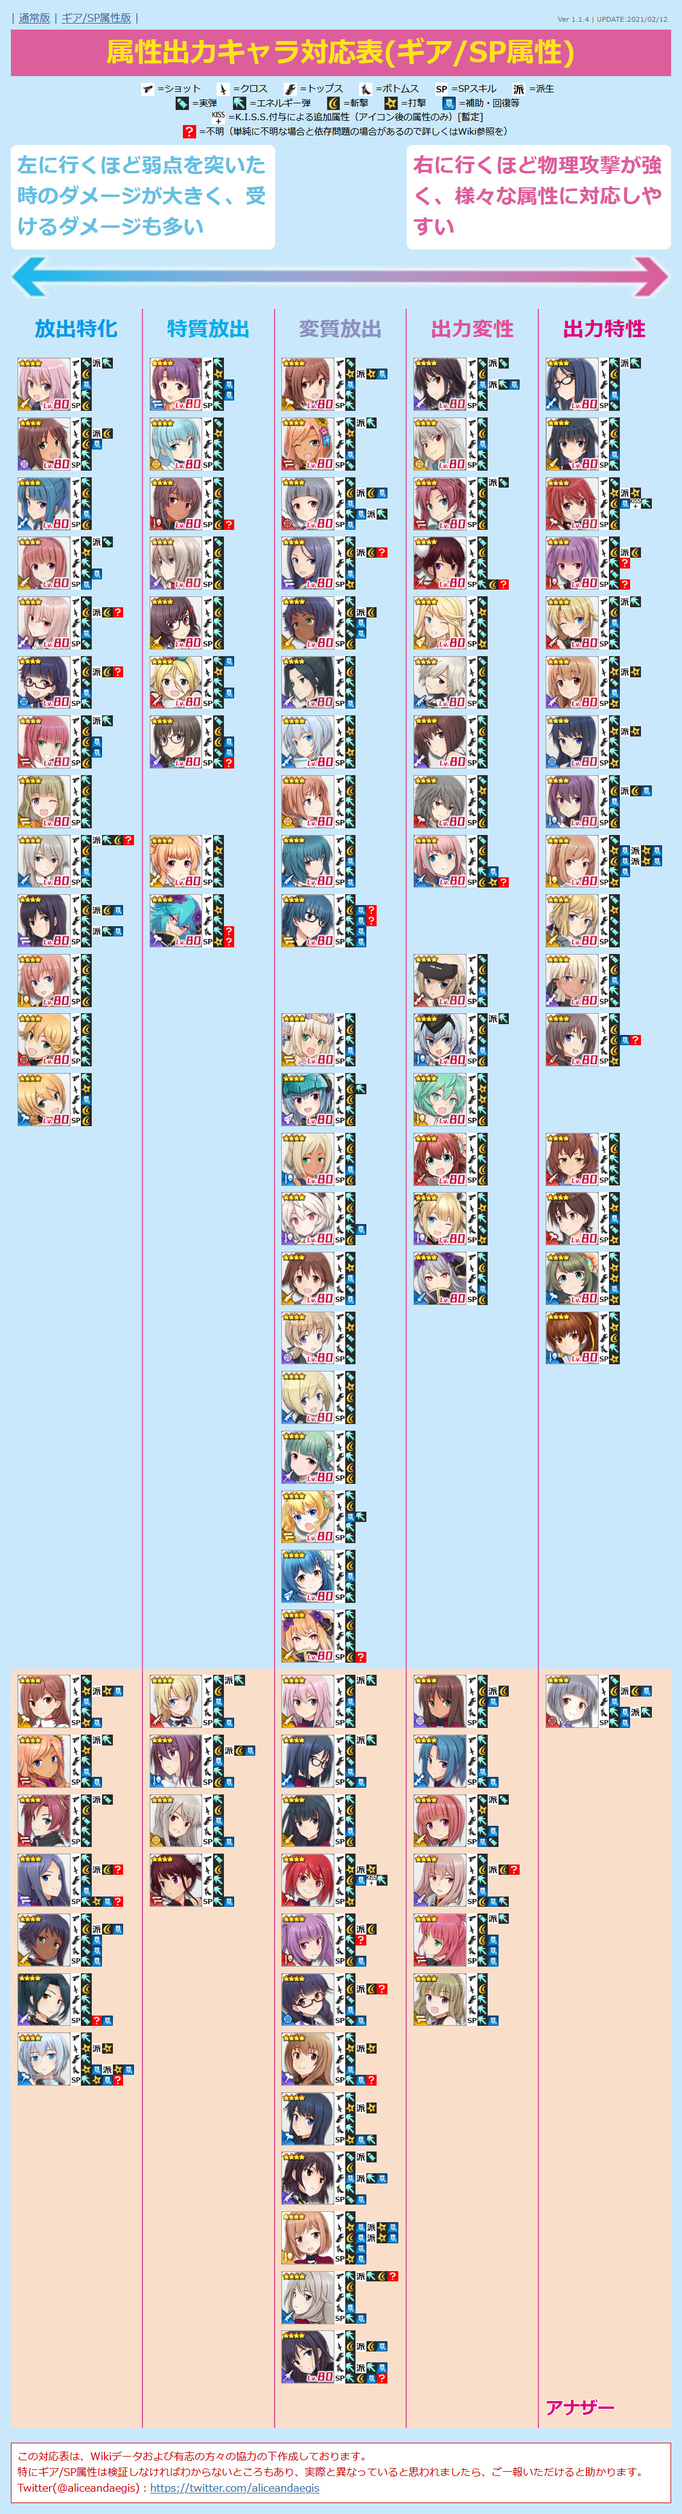
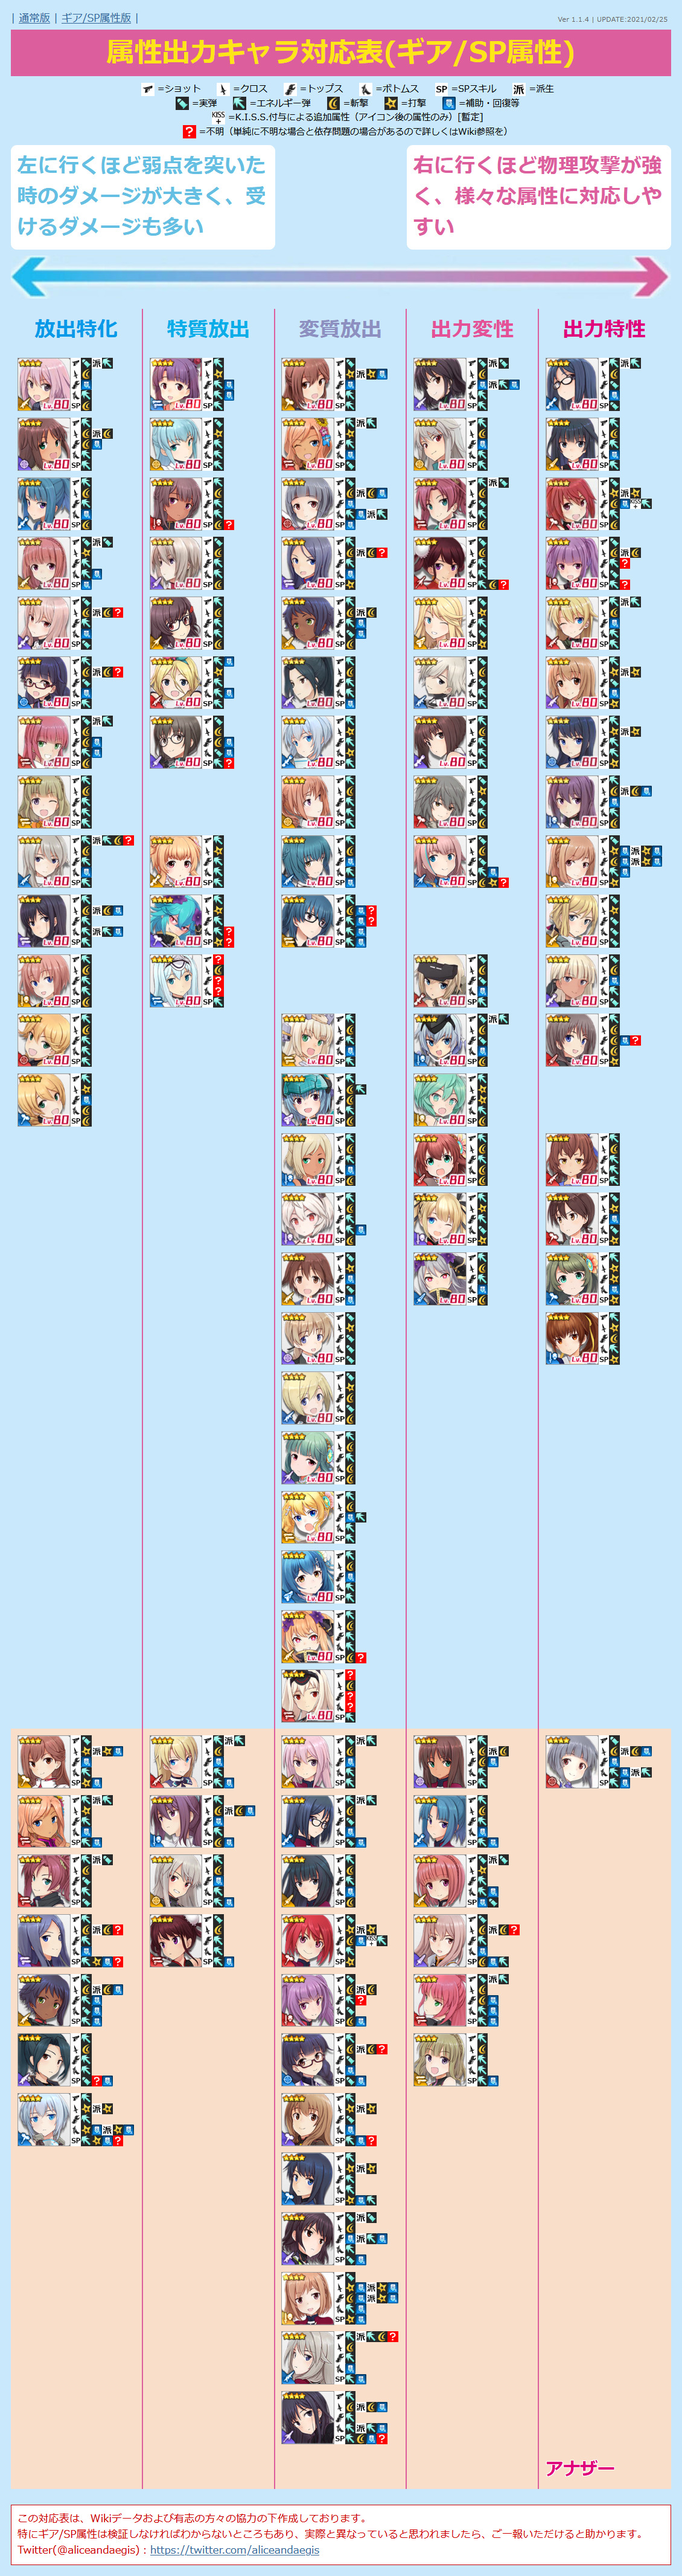
UPDATE chara data
・アナザー 籠目 深沙希/泡影のアイコン更新
・コラボキャラ  AIT Ti2を追加
・コラボキャラ  AIT イア・レトナを追加

diff --git a/alice.html b/alice.html
@@ -12,7 +12,7 @@
   <script>
 
 /* 更新情報 必要に応じて書き換えてください */
-  var version = "Ver 1.1.4 | UPDATE:2021/02/12";
+  var version = "Ver 1.1.4 | UPDATE:2021/02/25";
 
 /*
   jsonファイルを外部に設置すると単にHTMLファイルを開いたときに動作しなくなるので当面はHTMLファイル内に
@@ -20,7 +20,7 @@
 
   { ... },
   でキャラデータがワンセット。各項目は下記の通り。
-  id       = 番号(101～FAGコラボ、201～SOL/DTAコラボ、301～ｽﾄﾗｲｸｳｨｯﾁｰｽﾞ、401～ﾊﾞﾄﾙｶﾞｰﾙﾊｲｽｸｰﾙ、501～ﾃﾞｯﾄﾞｵｱｱﾗｲﾌﾞ、601～東京ﾄﾞｰﾙｽﾞ)
+  id       = 番号(101～FAGコラボ、201～SOL/DTAコラボ、301～ｽﾄﾗｲｸｳｨｯﾁｰｽﾞ、401～ﾊﾞﾄﾙｶﾞｰﾙﾊｲｽｸｰﾙ、501～ﾃﾞｯﾄﾞｵｱｱﾗｲﾌﾞ、601～東京ﾄﾞｰﾙｽﾞ、701～ﾀﾞﾗｲｱｽ)
   type     = 1=放出特化、2=特質放出、3=変質放出、4=出力変性、5=出力特性
   src      = 画像ファイル名
   name     = キャラクター名
@@ -1505,6 +1505,34 @@
       "sp": "4?",
       "attr": "2",
       "link": "https://wikiwiki.jp/alicegear/%E3%83%A4%E3%83%9E%E3%83%80",
+      "category": "99"
+    },
+    {
+      "id": "701",
+      "type": "3",
+      "src": "normal-ait.png",
+      "name": "AIT Ti2",
+      "equip1": "?",
+      "equip2": "3",
+      "equip3": "?",
+      "equip4": "?",
+      "sp": "2",
+      "attr": "3",
+      "link": "https://wikiwiki.jp/alicegear/AIT%20Ti2",
+      "category": "99"
+    },
+    {
+      "id": "702",
+      "type": "2",
+      "src": "normal-ait-ia.png",
+      "name": "AIT / イア・レトナ",
+      "equip1": "?",
+      "equip2": "3",
+      "equip3": "?",
+      "equip4": "?",
+      "sp": "2",
+      "attr": "4",
+      "link": "https://wikiwiki.jp/alicegear/AIT%E3%80%90%E3%82%A4%E3%82%A2%E3%83%BB%E3%83%AC%E3%83%88%E3%83%8A%E3%80%91",
       "category": "99"
     },
 
